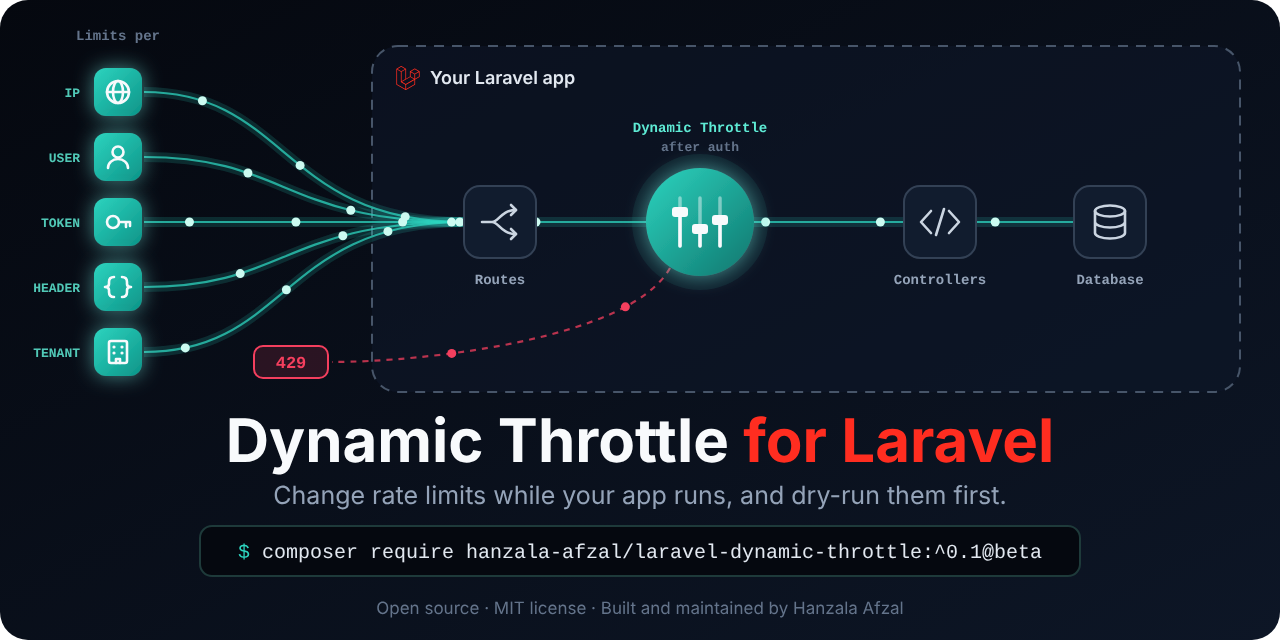
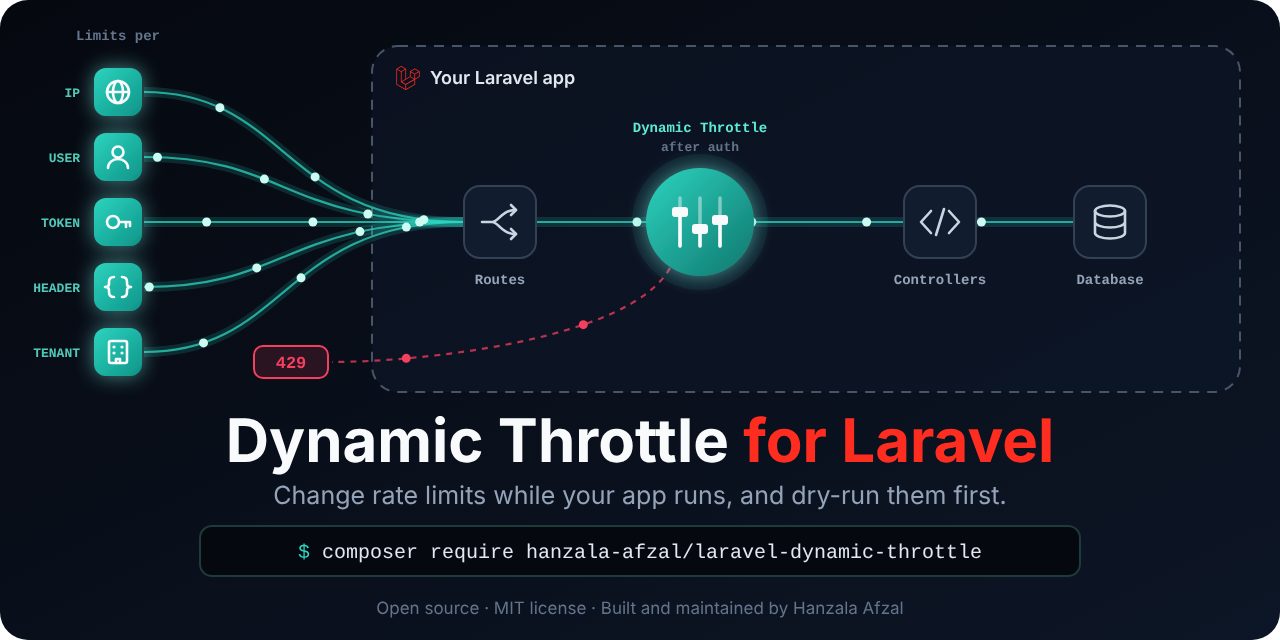
chore: release 0.1.0
The first stable release, straight after 0.1.0-beta.2: two betas brought
no feedback, and a new-user test (#148 to #154) stood in for testers.

composer require installs it without @beta. The README, its banner
(banner-v3.svg, a new name so Packagist's image cache shows it) and the
documentation site no longer say beta; the social preview is rebuilt
from the banner, and the feedback issue template is no longer for a
beta. The roadmap records the change of plan.

diff --git a/README.md b/README.md
@@ -1,23 +1,16 @@
 <!-- Packagist shows this README's images through rawcdn.githack.com, which caches each address for good: give a changed image a new file name, or Packagist keeps showing the old one. -->
 <p align="center">
-  <img src="art/banner-v2.svg" width="100%" alt="Dynamic Throttle for Laravel: requests enter your Laravel app, limited per IP, user, token, header or tenant. After routing and authentication, Dynamic Throttle lets the allowed requests on to the controllers and database, and the excess gets a 429. Install with composer require hanzala-afzal/laravel-dynamic-throttle:^0.1@beta.">
+  <img src="art/banner-v3.svg" width="100%" alt="Dynamic Throttle for Laravel: requests enter your Laravel app, limited per IP, user, token, header or tenant. After routing and authentication, Dynamic Throttle lets the allowed requests on to the controllers and database, and the excess gets a 429. Install with composer require hanzala-afzal/laravel-dynamic-throttle.">
 </p>
 
 <p align="center">
-  <a href="https://packagist.org/packages/hanzala-afzal/laravel-dynamic-throttle"><img src="https://img.shields.io/packagist/v/hanzala-afzal/laravel-dynamic-throttle.svg?style=flat-square&label=packagist&include_prereleases" alt="Latest version on Packagist"></a>
+  <a href="https://packagist.org/packages/hanzala-afzal/laravel-dynamic-throttle"><img src="https://img.shields.io/packagist/v/hanzala-afzal/laravel-dynamic-throttle.svg?style=flat-square&label=packagist" alt="Latest version on Packagist"></a>
   <a href="https://github.com/hanzala-afzal-dev/laravel-dynamic-throttle/actions/workflows/ci.yml"><img src="https://github.com/hanzala-afzal-dev/laravel-dynamic-throttle/actions/workflows/ci.yml/badge.svg" alt="Tests"></a>
   <a href="https://packagist.org/packages/hanzala-afzal/laravel-dynamic-throttle"><img src="https://img.shields.io/packagist/dt/hanzala-afzal/laravel-dynamic-throttle.svg?style=flat-square" alt="Total downloads"></a>
   <img src="https://img.shields.io/badge/php-8.3%20%7C%208.4%20%7C%208.5-777BB4?style=flat-square&logo=php&logoColor=white" alt="PHP 8.3, 8.4 and 8.5">
   <img src="https://img.shields.io/badge/laravel-12%20%7C%2013-FF2D20?style=flat-square&logo=laravel&logoColor=white" alt="Laravel 12 and 13">
   <a href="LICENSE"><img src="https://img.shields.io/badge/license-MIT-blue.svg?style=flat-square" alt="MIT license"></a>
 </p>
-
-<!-- #region beta -->
-
-> [!IMPORTANT]
-> **Public beta.** Everything planned for 0.1.0 is in, but names and options may still change, and the [changelog](CHANGELOG.md) will say how to upgrade. Try it in staging first, and [tell us](#beta-feedback) what breaks or confuses you.
-
-<!-- #endregion beta -->
 
 **Dynamic Throttle for Laravel** lets you change your app's rate limits while it runs: per IP, user, API token, header or tenant, with a dry-run mode, exemptions, emergency switches and a dashboard.
 
@@ -62,10 +55,10 @@ It ships with the package at `/dynamic-throttle`, behind your gates, with nothin
 
 ## Installation
 
-**1. Install the beta:**
+**1. Install:**
 
 ```bash
-composer require hanzala-afzal/laravel-dynamic-throttle:^0.1@beta
+composer require hanzala-afzal/laravel-dynamic-throttle
 ```
 
 **2. Create the tables, and compile the rules once.** After this, saving a rule compiles them, and so does the scheduler.
@@ -145,9 +138,9 @@ The [guide](docs/guide/README.md) has the details, also on the [documentation si
 - [The dashboard](docs/guide/dashboard.md), [health checks](docs/guide/health.md) and [during an incident](docs/guide/incidents.md)
 - The [runbook](docs/runbook.md): Redis is down, the manifest was evicted, a bad rule blocks `/api`, or an emergency change was left on
 
-<!-- #region beta-feedback -->
+<!-- #region feedback -->
 
-## Beta feedback
+## Feedback
 
 What helps most:
 
@@ -157,7 +150,7 @@ What helps most:
 
 Report bugs in [issues](https://github.com/hanzala-afzal-dev/laravel-dynamic-throttle/issues/new/choose), and bring questions and ideas to [discussions](https://github.com/hanzala-afzal-dev/laravel-dynamic-throttle/discussions). Report security issues privately, as [SECURITY.md](SECURITY.md) explains, never in a public issue.
 
-<!-- #endregion beta-feedback -->
+<!-- #endregion feedback -->
 
 ## License
 

diff --git a/docs/roadmap.md b/docs/roadmap.md
@@ -213,13 +213,15 @@ A dashboard that ships with the package, as Laravel Horizon's does: served at it
 - `0.1.0-RC1` with fixes only, then `0.1.0` when no serious bug is reported for a week or two.
 - Then Phase 6 towards 1.0.
 
+**Changed on 2026-10-29:** `0.1.0` came straight after `0.1.0-beta.2`, without a release candidate. Two betas brought no feedback, so waiting for reports would only have delayed the first release that installs without `@beta`. A new-user test (issues #148 to #154) stood in for the testers, and later fixes ship as `0.1.x`.
+
 **Fallback:** if the phase runs more than 50% over its estimate, release 0.1.0 once Overview, Rules, Exemptions, Settings and the emergency controls are finished, since those manage throttling, and move Activity, Audit log and Explain to a minor release.
 
 ---
 
 ## The betas — before 0.1.0
 
-Changes from beta feedback, while the API may still change. Each breaking change gets an upgrade note in the changelog.
+Changes from beta feedback, while the API may still change. Each breaking change gets an upgrade note in the changelog. Done: `0.1.0` was released on 2026-10-29. SPEC-034 did not make it, and moves to a later minor release.
 
 **Dashboard access in production** (raised by the maintainer on 2026-10-19, important): in production, nobody can open the dashboard until the app defines a gate, as with Horizon. An app that skips that step gets a 403 and no explanation, and an app without a user login has no one for a gate to check.
 
@@ -234,9 +236,9 @@ Changes from beta feedback, while the API may still change. Each breaking change
 
 **A new-user test of `0.1.0-beta.2`** (2026-10-29, issues #148 to #154): installing from Packagist into fresh Laravel 12 and 13 apps and following the README word for word. The install steps, health messages and dashboard wording are fixed without a spec.
 
-- **SPEC-035: say when a rule can never apply (S).** An `unreached` health check warns about a rule that matches routes, none of which runs `dynamic.throttle` outside `except`, such as a Login rule while only the `api` group runs the middleware (#149).
+- **SPEC-035: say when a rule can never apply (S), done, in `0.1.0`.** An `unreached` health check warns about a rule that matches routes, none of which runs `dynamic.throttle` outside `except`, such as a Login rule while only the `api` group runs the middleware (#149).
 
-**Considered, not planned:** finer permissions than view and manage, such as a third gate for bypass and scaling. Only if beta users ask for it.
+**Considered, not planned:** finer permissions than view and manage, such as a third gate for bypass and scaling. Only if users ask for it.
 
 ---
 

diff --git a/CHANGELOG.md b/CHANGELOG.md
@@ -6,12 +6,17 @@ The format is based on [Keep a Changelog](https://keepachangelog.com/en/1.1.0/),
 
 ## [Unreleased]
 
+## [0.1.0] - 2026-10-29
+
+The first stable release, after two betas: `composer require hanzala-afzal/laravel-dynamic-throttle` installs it, without `@beta`. From a beta, `composer update` brings it, since `^0.1@beta` allows it, and your app needs no change. But check two things. A rule for a `web` route, such as one from the Login, Password reset or Sign-up template, applies only once `dynamic.throttle` runs on the `web` group too, as the README now shows. And `dynamic-throttle:health --strict` fails on a new warning, `unreached`, for a rule that matches only routes that do not run the middleware, so a deploy script that runs it may stop on one.
+
 ### Added
 
 - The `unreached` health check warns about a rule that matches routes of the app, none of which limits it: they do not run `dynamic.throttle`, or `except` covers their paths. Such a rule never applies, and nothing said so. A new user's Login rule did that while only the `api` group ran the middleware ([SPEC-035](docs/specs/035-unreached-rules.md), [#149](https://github.com/hanzala-afzal-dev/laravel-dynamic-throttle/issues/149)).
 
 ### Changed
 
+- The package is out of beta: `composer require hanzala-afzal/laravel-dynamic-throttle` installs it, and the README, its banner and the documentation site no longer say beta. Later fixes ship as `0.1.x`.
 - The documentation site is for the package's users: it no longer shows the design decisions (ADRs), and its pages no longer link to editing them on GitHub. The ADRs stay in the repository, and the guide's links to them open them on GitHub.
 
 ### Fixed
@@ -165,6 +170,7 @@ The first public beta.
   - It exits 1 when a check errs, and with `--strict` when one warns too. It changes nothing.
 - Telemetry also records, per rule and minute, the guests a user rule counted, the requests a rule skipped for want of an identity, and those it was ignored for over the cap. On Redis and Valkey, it also counts each hour's requests per client. The health checks read them, and the hourly table does not change.
 
-[Unreleased]: https://github.com/hanzala-afzal-dev/laravel-dynamic-throttle/compare/v0.1.0-beta.2...HEAD
+[Unreleased]: https://github.com/hanzala-afzal-dev/laravel-dynamic-throttle/compare/v0.1.0...HEAD
+[0.1.0]: https://github.com/hanzala-afzal-dev/laravel-dynamic-throttle/releases/tag/v0.1.0
 [0.1.0-beta.2]: https://github.com/hanzala-afzal-dev/laravel-dynamic-throttle/releases/tag/v0.1.0-beta.2
 [0.1.0-beta.1]: https://github.com/hanzala-afzal-dev/laravel-dynamic-throttle/releases/tag/v0.1.0-beta.1

diff --git a/docs/site/index.md b/docs/site/index.md
@@ -6,7 +6,7 @@ titleTemplate: false
 hero:
   name: Dynamic Throttle
   text: Rate limits you change while your Laravel app runs
-  tagline: Per IP, user, API token, header or tenant, with dry-run, exemptions, emergency switches and a dashboard. Now in public beta.
+  tagline: Per IP, user, API token, header or tenant, with dry-run, exemptions, emergency switches and a dashboard.
   actions:
     - theme: brand
       text: Get started

diff --git a/docs/site/getting-started.md b/docs/site/getting-started.md
@@ -2,8 +2,6 @@
 
 # Getting started
 
-<!--@include: ../../README.md#beta-->
-
 <!--@include: ../../README.md#getting-started-->
 
-<!--@include: ../../README.md#beta-feedback-->
+<!--@include: ../../README.md#feedback-->
